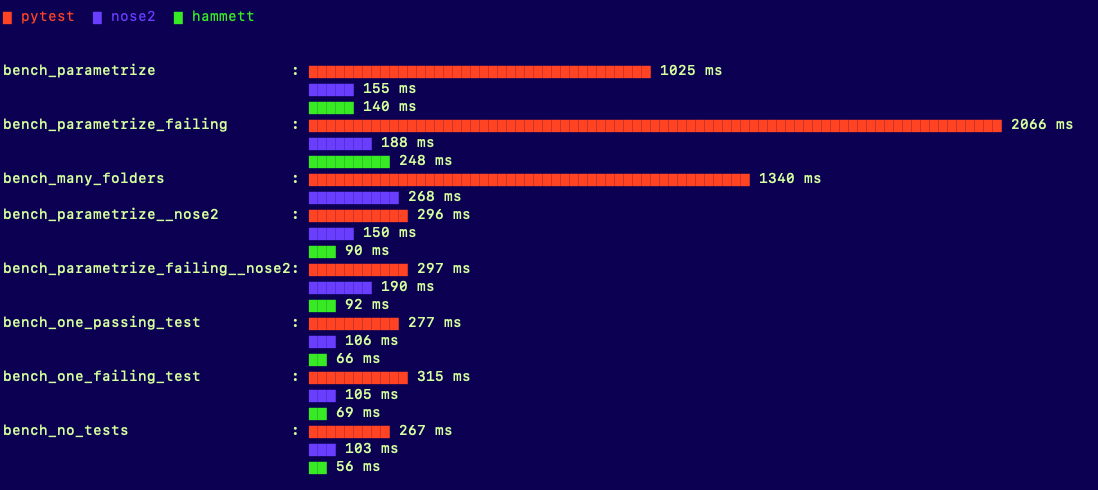
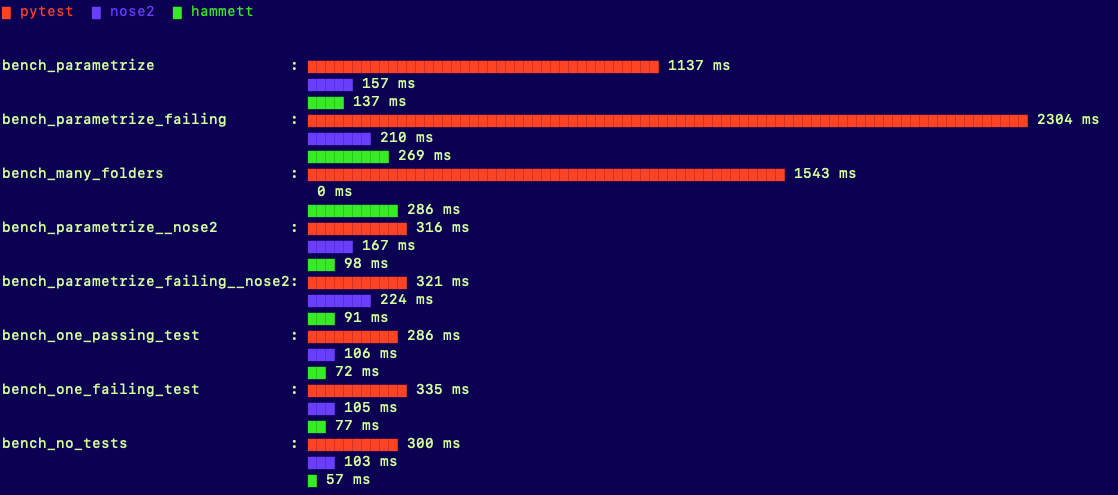
Fixed graph for nose2 missing feature

diff --git a/run_bench.py b/run_bench.py
@@ -1,4 +1,5 @@
 import os
+from math import nan
 from subprocess import run, DEVNULL
 import sys
 from datetime import datetime
@@ -27,6 +28,7 @@ def run_bench(runner):
     for bench in benchmarks:
         if bench in unsupported[runner]:
             print(runner, 'MISSING FEATURE', bench)
+            results[bench][runner] = 0
             continue
         os.chdir(orig_dir)
         runner_specific = f'{bench}__{runner}'
